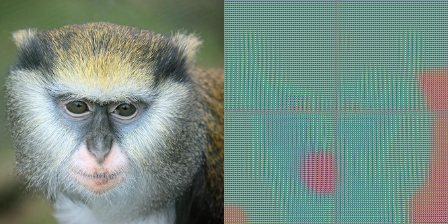
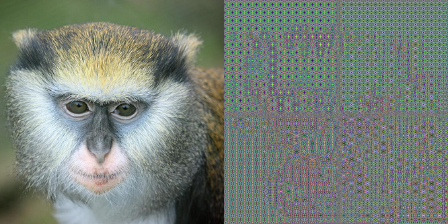
some more failed experiments

diff --git a/mahendran_vedaldi_2016.py b/mahendran_vedaldi_2016.py
@@ -94,7 +94,7 @@ def invert_layer(params):
                                         weighting=1 / (params['img_HW'] ** 2 * params['range_V'] ** params['beta_tv']))
 
             ica_prior = ICAPrior(tensor_names='reconstruction/read:0',
-                                 weighting=100.0, name='ICAPrior',
+                                 weighting=10.0, name='ICAPrior',
                                  load_path='./logs/priors/ica_prior/8by8_512_color/ckpt',
                                  trainable=False, filter_dims=[8, 8], input_scaling=1.0, n_components=512)
 
@@ -103,13 +103,6 @@ def invert_layer(params):
             for mod in loss_mods:
                 mod.build()
                 loss += mod.get_loss()
-
-            print(ica_prior.get_loss())
-            ica_grads = tf.gradients(ica_prior.get_loss(), ica_prior.get_tensors())
-            print(ica_prior.get_tensors())
-            print(reconstruction)
-            print(tf.gradients(ica_prior.get_loss(), reconstruction))
-            print(ica_grads)
 
             lr_pl = tf.placeholder(dtype=tf.float32, shape=[])
             # optimizer = tf.train.AdamOptimizer(lr_pl)

diff --git a/ica_prior.py b/ica_prior.py
@@ -33,7 +33,7 @@ class ICAPrior(LearnedPriorLoss):
             x_pad = ((dims[1] - 1) // 2, int(np.ceil((dims[1] - 1) / 2)))
             y_pad = ((dims[2] - 1) // 2, int(np.ceil((dims[2] - 1) / 2)))
             conv_input = tf.pad(tensor, paddings=[(0, 0), x_pad, y_pad, (0, 0)], mode='REFLECT')
-            flat_patches = tf.nn.conv2d(conv_input, flat_filter, strides=[1, 2, 2, 1], padding='VALID')
+            flat_patches = tf.nn.conv2d(conv_input, flat_filter, strides=[1, 8, 8, 1], padding='VALID')
             scaled_patches = flat_patches * self.input_scaling
             centered_patches = flat_patches - tf.stack([tf.reduce_mean(scaled_patches, axis=3)] * filter_mat.shape[3],
                                                        axis=3)
